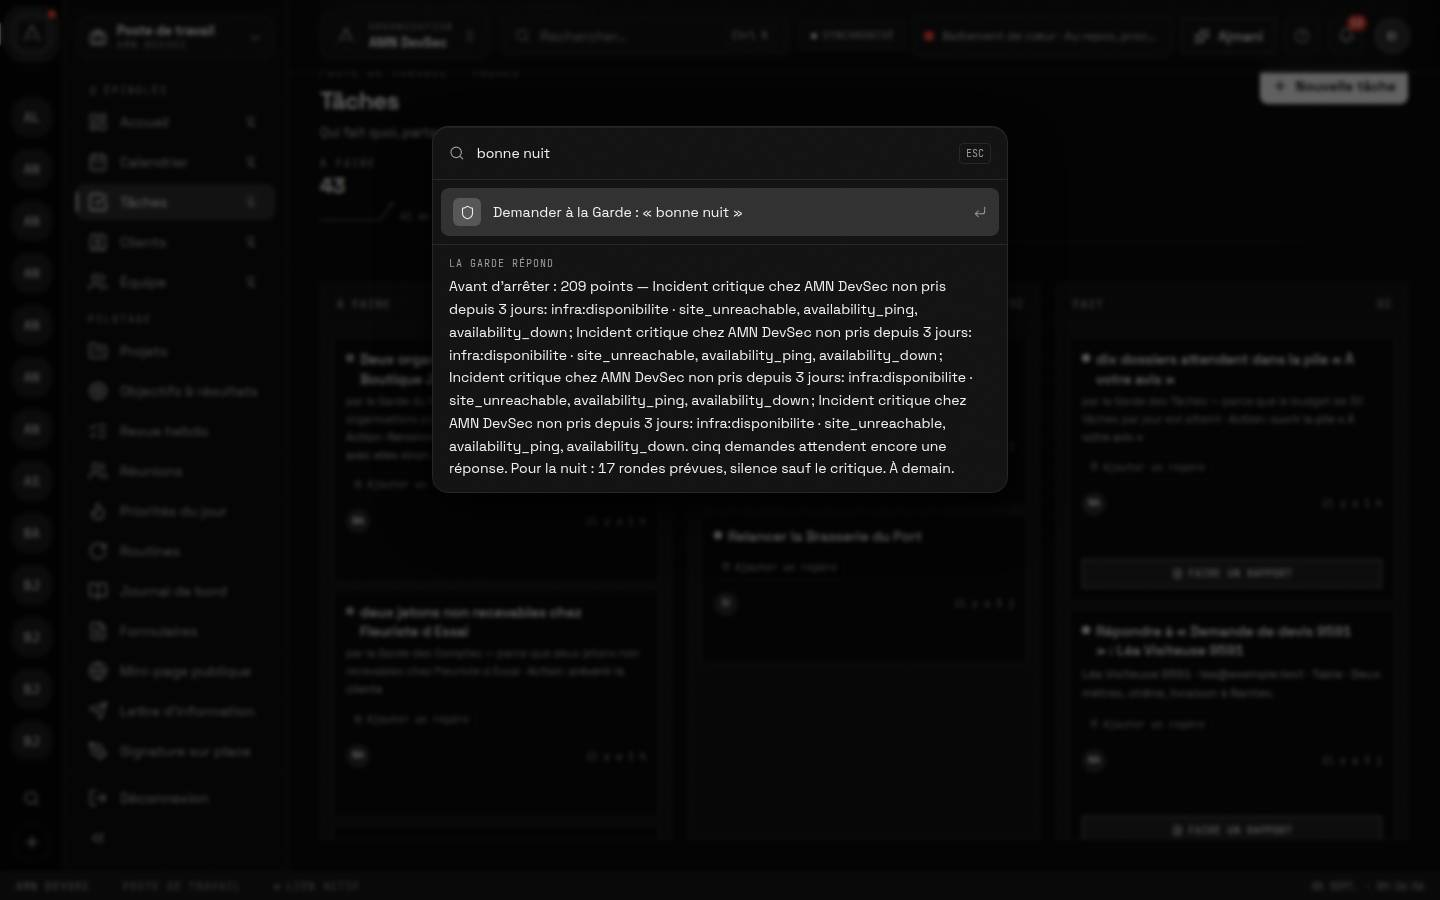
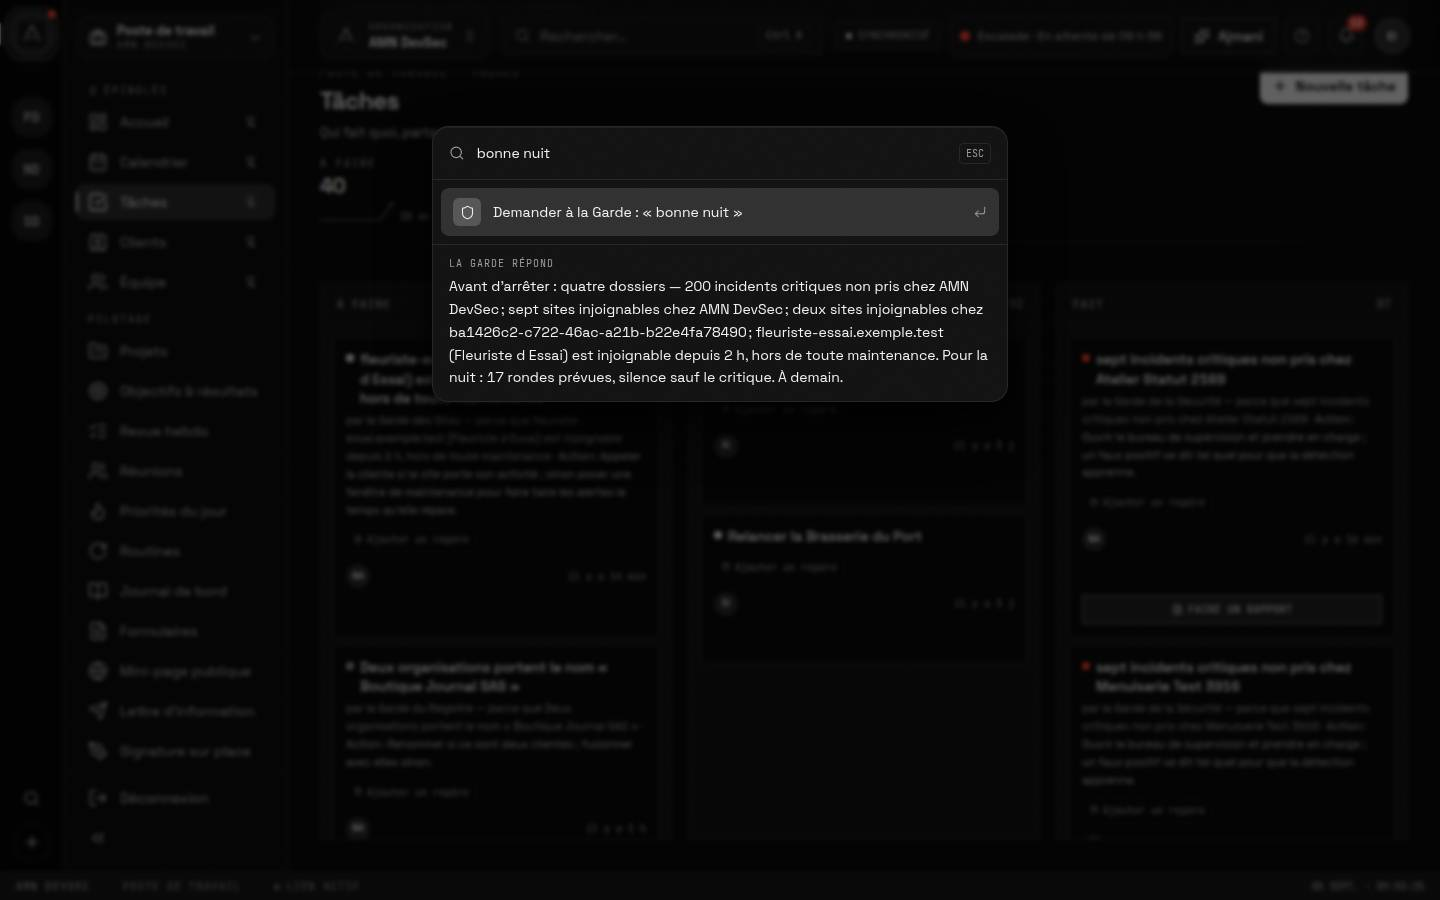
Rapport au réveil de la Garde, et la sonde 11 qui referme la palette avant de capturer
docs/garde-2026-09-05.md : le Bloc 0 (cause, correction, check:migration et
sa preuve par mutation), les équipes (règle seule / remonte), la Salle,
Ajmani (intentions, conversation témoin), le ton, le volume, la régence, ce
qui reste honnêtement — dont le parc d'essai local effacé par erreur et
reposé par un script —, ce qu'Aaron doit faire, les commits, les gardes.

La sonde recharge l'écran avant la capture du bureau des Clientes : la
palette restait posée dessus. Captures 80 à 84 reprises.

Claude-Session: https://claude.ai/code/session_01BEf9qY21FAUuZ4ogxRY3s2

diff --git a/docs/garde-2026-09-05.md b/docs/garde-2026-09-05.md
@@ -1,0 +1,114 @@
+# La Garde — rapport au réveil, 5 septembre 2026
+
+Le desktop qui travaille quand Aaron dort : douze blocs, deux dépôts, une nuit. Tout ce qui est écrit ici a été mesuré ou capturé ; ce qui ne l'a pas été est dit tel quel dans « Ce qui reste, honnêtement ».
+
+Points de sauvegarde : branche `avant-la-garde` sur les deux dépôts (desktop `9b59dfb`, amn-api `222c699`). Version du desktop inchangée : 1.2.44.
+
+## 1. Bloc 0 — les logos perdus à la 1.2.44
+
+**La cause.** Les logos n'ont jamais quitté la base. À la 1.2.44, le rail et les écrans du parc sont passés de la liste complète à l'échantillon paginé (Bloc 4 de la supervision) ; ses lignes ne portaient pas le logo, et `src/lib/parcEchantillon.ts` le mettait à `null`. Mesuré sur le build précédent : logo en base, zéro image dans le rail ; sur le build corrigé : une image. Rien à restaurer, donc : l'affichage est rétabli, aucune organisation réelle n'a été touchée en écriture.
+
+**La correction.** L'échantillon demande les logos par lot (`organizationLogos`, cent par appel, mémorisés) aux seules organisations qui en ont. Le dossier d'une organisation existante gagne « Changer le logo » et « Retirer » : ils ne se posaient qu'à la création, d'où l'impossibilité de les remettre. Captures `00-rail-logos-avant.jpg`, `00-rail-logos-apres.jpg`, `01-dossier-changer-logo.jpg`.
+
+**`check:migration`** (`scripts/check-migration.mjs`, `docs/check-migration.md`), en CI avant toute publication (`release.yml`, travail `migration`, `needs`) : la version précédente d'amn-api écrit un jeu de données complet (69 collections, deux organisations, logos, étiquettes, verrous, comptes de chaque rôle, préférences, supervision, journal — 255 lignes), le candidat démarre dessus et chaque ligne est comparée ; puis le desktop candidat est ouvert dans un navigateur réel et doit montrer tout ce qui a été écrit (rail, registre, dossiers, miroir de chaque collection). **La preuve par mutation** : `--mutation=poste` remet les logos à `null` côté poste (la régression d'origine), `--mutation=serveur` efface la colonne à la migration ; le garde échoue dans les deux cas, la CI le vérifie. Dernier passage local : 19 collections vues à l'écran, 0 perte.
+
+## 2. Les équipes — ce que chacune règle seule, ce qu'elle remonte
+
+Sept équipes, vingt gardes, sous le Capitaine ; Ajmani juge et rend compte. Chaque équipe règle seule ce qui est sûr et ne remonte que ce qui demande un avis.
+
+| Équipe (chef) | Règle seule | Remonte |
+|---|---|---|
+| **Sites** — Battement de cœur, Disponibilité, Certificats, Dépendances, Rondes planifiées, Rapports hebdomadaires | les rondes de supervision existantes : silences, sondes, SSL, OSV, résumés | un site injoignable depuis plus de 30 min hors maintenance ; un certificat sous 7 jours |
+| **Sécurité** — Escalade, Campagnes | l'escalade existante | un incident critique non pris depuis 15 min ; un acteur chez 3 organisations en 24 h |
+| **Comptes** — Places, Jetons, Impayés | activation d'un module, d'une formule ou de places au jeton valide ; préavis, grâce (7 j), mise en pause des modules souscrits, réouverture au règlement | places dépassées ; jeton non recevable ; impayé au-delà de la grâce |
+| **Registre** — Hygiène | une clé de module disparue retirée d'une liste (annulable) | organisation sans compte après 30 j ; doublon de nom |
+| **Clientes** — Demandes, Rapports mensuels, Accueil | accusé de réception de chaque demande ; le rapport du mois au premier du mois ; **la cliente qui arrive la nuit, installée** (modules de sa formule, un accès, un mot de bienvenue) | une demande sans réponse depuis 24 h ; une demande de module en attente |
+| **Produit** — Erreurs du serveur, Intégrité, Mises à jour | — | plus de 20 erreurs serveur en une heure ; un rôle ou une formule inconnus |
+| **Tâches** — Émission | une remontée = une tâche chez AMN DevSec, en dossiers, mise à jour, close quand c'est résolu ; 30 par jour, le reste en une tâche | rien : elle traduit |
+| **Mémoire** — Purge | sessions et liens expirés, compteurs, vieilles rondes et journal | des événements bruts au-delà de 180 jours, tant qu'Aaron n'a pas fixé la durée |
+
+Le Capitaine : le tour des bureaux (une Relève par jour, à l'heure réglée), le pouls, le calendrier, les propositions d'ajustement hebdomadaires, la régence, les ordres, la Salle commune, les collaborations arbitrées (un agent en sollicite un autre, trois fois par ronde au plus, jamais sur une organisation gelée). Tout est déterministe : aucun modèle de langage ; le Lexique formule, les règles décident, chaque geste s'explique par la règle qui l'a produit.
+
+## 3. La Salle, et l'espace « La Garde »
+
+Capture `10-garde-salle.jpg` : le mur des gardes, équipe par équipe, ce que chacun fait maintenant, les collaborations arbitrées par le Capitaine (`61-salle-collaborations.jpg`). Autour : la pile « À votre avis » en dossiers (`11-garde-pile.jpg`, `21-garde-pile-dossiers.jpg`), les bureaux des chefs (`12-garde-bureau-comptes.jpg`, `16-garde-bureau-telephone.jpg`), la Salle commune (`13-garde-commune.jpg`), le calendrier (`14-garde-calendrier.jpg`), le tout sur téléphone (`15-garde-salle-telephone.jpg`). L'insigne en haut à droite dit sur n'importe quel écran qui est en ronde, chez qui (`60-insigne-garde.jpg`, `63-insigne-telephone.jpg`) ; le dossier d'une organisation porte l'historique de la Garde chez elle, avec le garde à qui parler (`62-dossier-garde-chez-elle.jpg`, `84-dossier-accueillie.jpg`).
+
+## 4. Ajmani, chef d'état-major — ses intentions, et une conversation témoin
+
+Ce qu'il tient : la seule pile, en dossiers (deux cents incidents identiques chez la même organisation sont une situation) ; l'arbitrage entre les chefs (le plus grave mène, les autres se rangent derrière) ; le mandat (une famille de situations confiée avec la décision à appliquer, jamais sur du critique) ; le silence de nuit (22 h – 7 h, réglable, sauf le critique) ; **la parole du jour** (six choses par jour de lui-même, réglable ; le reste attend demain matin, en une phrase) ; la première parole (une seule proposition, choisie par une règle lisible : le critique, puis la pile, puis le tour des bureaux, puis une règle à ajuster, sinon rien) ; ce qu'il ne sait pas (un garde dont les rondes échouent, un dossier sans recommandation). Captures `20-garde-ajmani.jpg`, `22-garde-panneau-ajmani.jpg`, `23-garde-ajmani-telephone.jpg`, `80-ajmani-cloture.jpg`.
+
+Conversation témoin, telle quelle, sur le serveur local (5 septembre, 9 h 44 ; le parc d'essai porte deux cents incidents critiques de test) :
+
+> **Ajmani, à l'entrée.** Bonjour. Critique : 200 points critiques. — Un point d'abord, un dossier critique : 200 incidents critiques non pris chez AMN DevSec. Voulez-vous le prendre en charge ?
+>
+> **Aaron.** qui es-tu ?
+> **Ajmani.** La Garde : 20 gardes, sous le Capitaine ; Ajmani juge et rend compte. Garde des Sites (Chef des Sites : Battement de cœur, Disponibilité, Certificats, Dépendances, Rondes planifiées, Rapports hebdomadaires) ; Garde de la Sécurité (Chef de la Sécurité : Escalade, Campagnes) ; Garde des Comptes (…) ; Garde des Clientes (Chef des Clientes : Demandes, Rapports mensuels, Accueil) ; …
+>
+> **Aaron.** comment ça va ?
+> **Ajmani.** 200 points critiques. En veille : 20 gardes. À votre avis : 214 points, dont 200 critiques.
+>
+> **Aaron.** qui est arrivé cette nuit ?
+> **Ajmani.** deux organisations arrivées depuis 24 h : Syraagensy d Essai (5 septembre 09 h 39, installée : compte déjà ouvert) ; Fleuriste d Essai (5 septembre 09 h 39, installée : compte déjà ouvert).
+>
+> **Aaron.** et si Disponibilité tombait à 5 minutes ?
+> **Ajmani.** Disponibilité, règle « tombe » : Avec seuilMinutes à 5, le mois écoulé aurait produit 16 au lieu de 16.
+>
+> **Aaron.** je ferme pour ce soir
+> **Ajmani.** Ce qui vous attend : quatre dossiers — 200 incidents critiques non pris chez AMN DevSec ; … Cette nuit, la Garde fera 17 rondes ; je ne vous dérange que pour le critique. Bonne soirée.
+>
+> **Aaron.** fais-moi un café
+> **Ajmani.** Je n'ai pas compris. Dites-moi quoi faire en quelques mots : une ronde, une organisation, un module, une période.
+
+Trente intentions comprises (`GET /v1/garde/lexique`), dont les nouvelles de cette nuit : la clôture, « et si », le pouls, le calendrier, qui est arrivé, qui es-tu, le silence, l'heure du tour, la parole, le mandat par la voix. « Je pars » tout court est une clôture ; « je pars trois jours », une absence à confirmer.
+
+## 5. Le ton — `check:parole`
+
+Sur les deux dépôts, en CI. Côté serveur : chaque tournure du Lexique rendue avec des paramètres de remplissage (162 tournures, 98 clés), chaque libellé du guide, chaque phrase en dur des équipes (un automate lit les chaînes du source) — refusés : le point d'exclamation, la servilité (« mon roi », « à vos ordres », « désolé », « avec plaisir »…), l'apostrophe droite, le « (s) », une typographie mal posée, un nom compté dont le genre n'est pas dit (« une demande », « aucune ronde », jamais « un demande »). Il a trouvé et fait corriger onze phrases (apostrophes droites, trois « (s) »). Côté poste : les 534 clés `garde.*` des deux dictionnaires et les phrases en dur des écrans de la Garde ; il a trouvé et fait corriger vingt-six clés (« constat(s) jugé(s) », « situation(s) », onze espaces fines devant un deux-points, onze espaces simples). « À vos ordres » a quitté les salutations d'Ajmani.
+
+## 6. Bloc 8 — la Garde en volume, et ses limites
+
+`amn-api/docs/garde-volume-2026-09-05.md`, sur une copie de la base de volume (100 001 organisations, 100 000 sites, 301 166 incidents), aucun réseau :
+
+| Mesure | Valeur |
+|---|---|
+| Une ronde de chaque agent, forcée | de 1 ms (jetons, impayés) à 6,9 s (certificats) et 5,7 s (disponibilité) ; battement de cœur 1,4 s |
+| Nuit simulée de 480 minutes | 463 s de temps réel, 773 ms de CPU par minute simulée, battement le plus long 6,3 s (budget 15 s) |
+| Rondes faites | 1 587 |
+| Remontées ouvertes → dossiers | 701 → 4 201 ; 4 198 dossiers dont 197 critiques |
+| Tâches chez AMN DevSec | 31 (budget de 30 par jour, puis une tâche pour le reste) |
+| Mémoire | pic 2 520 Mo ; après ramasse-miettes, tas JavaScript 42 Mo, 2 175 Mo hors tas (SQLite et son WAL) |
+
+Ce qui ne tient pas, dit avec les chiffres : à 100 000 organisations, les agents qui parcourent le parc par pages de 200 (places, hygiène, intégrité, rapports) mettent de 21 à 125 jours pour un tour complet ; le pic mémoire ne tient pas sur Render Starter (512 Mo) — le remède est un service « worker » dédié avec un budget par battement plus large, pas des lots plus gros. `check:taches` (CI) : 2 892 remontées → 908 dossiers en 495 ms, puis 60 ms.
+
+## 7. Bloc 12 — la régence, 72 heures sur 100 000 organisations
+
+`amn-api/scripts/garde-regence.mjs` → `amn-api/docs/garde-regence-2026-09-05.md`. Aaron part un vendredi à 20 h pour trois jours ; l'horloge avance par pas de dix minutes ; le Capitaine fait battre les rondes dues.
+
+La première mesure (avant correction) a révélé un défaut réel : une situation décidée par la régence revenait dans la pile à la ronde suivante — 216 055 remontées en 72 h pour 100 000 sites tombés. Corrigé à la source (une situation décidée ne se rouvre pas pendant vingt-quatre heures, elle est comptée), avec les compteurs de la Relève de rattrapage désormais en SQL. La seconde mesure, sur le code corrigé, tourne au moment où ce rapport est écrit ; ses chiffres et ses dix vérifications (✓ / ✗) sont dans `amn-api/docs/garde-regence-2026-09-05.md`, mis à jour par le commit qui suit celui-ci.
+
+## 8. Ce qui reste, honnêtement
+
+- **Une régence décide, elle n'agit pas.** Une décision en régence applique la recommandation du garde telle quelle : elle ferme la situation dans la pile, journalise, et le dit au retour. Ce que la recommandation demande à un humain (« appeler la cliente ») reste à faire. « Le critique va à Mohamed » est une consigne au journal, pas un envoi : aucun canal vers lui n'existe côté serveur.
+- **La cliente de nuit est installée, pas prévenue.** L'Accueil pose les modules, un lien d'accueil de sept jours ou constate l'invitation en cours, et un mot de bienvenue dans ses annonces. Le secret du lien ne sort pas du serveur ; personne ne lui envoie de courriel : la propriétaire le reçoit par le canal habituel (Mohamed, le site).
+- **« Et si ? »** ne se rejoue que sur trois règles (disponibilité, escalade, demandes), à partir des traces qui existent (pings indépendants, incidents, demandes). Les autres le disent : « cette règle ne se rejoue pas encore ».
+- **Le pas de dix minutes** de la simulation de régence : une ronde due entre deux pas attend le pas suivant.
+- **Le million** et Render Starter : voir le Bloc 8 ; un worker dédié, pas des lots plus gros.
+- **Ce que j'ai cassé, et réparé.** En nettoyant l'organisation d'essai d'une sonde, j'ai supprimé par la route d'administration toutes les organisations du parc d'essai **local** (`/tmp/e2e/amn.db`, trente organisations de sondes, aucune donnée réelle : le serveur de production n'a jamais été touché). Cause : une recherche `q=` prise pour un filtre exact, et une boucle qui supprimait sans relire les noms. Réparé par `amn-api/scripts/parc-essai.mjs`, qui repose un parc de test idempotent (deux clientes d'essai, un site injoignable, un incident critique non pris) ; les sondes 9 et 11 repassent (7/7, 10/10). La leçon est dans le script : on relit les noms avant de supprimer.
+- **Le bloc 3 des retouches** (points fantômes de la Salle, redirection d'édition sur les deux surfaces) n'a pas été repris cette nuit.
+- **Les tests de la CI** n'ont pas été vus tourner sur GitHub depuis cette session (les poussées partent, les journaux de CI ne sont pas lus d'ici) : à vérifier au réveil.
+
+## 9. Ce qu'Aaron doit faire
+
+1. **Déployer amn-api** (`main`, dernier commit de cette nuit) : `check:postgres` est vert en local (32 réponses identiques), la CI le rejoue sur un vrai Postgres. `GARDE=on` par défaut ; `GARDE_TICK_MS`, `GARDE_BUDGET_MS` règlent le battement. Sur Render Starter, surveiller la mémoire la première nuit.
+2. **Relier le site aux jetons** avec Mohamed : `amn-api/docs/site-jetons.md` (l'émission par le site, le dépôt par la cliente, l'activation par la Garde des Comptes, les règlements). Le jeton d'opérateur du site est à poser côté site.
+3. **Essayer sur sa machine** : `npm run check:parole` (les deux dépôts), `npm run check:migration` (desktop, `AMN_API_DIR=../amn-api`), puis la Garde en vrai : ouvrir l'espace « La Garde », parler à Ajmani (« comment ça va ? », « je ferme pour ce soir »), poser un mandat, régler l'heure du tour et le silence. Pour un parc de test local : `SQLITE_PATH=… node amn-api/scripts/parc-essai.mjs`.
+4. **Décider des réglages de la régence** : par défaut, sites, sécurité, registre, tâches et clientes décident seuls en absence ; les Comptes jamais ; la mise en pause des impayés est gelée. C'est un défaut, pas une doctrine.
+5. **Fixer la durée de garde des événements bruts** (la Mémoire remonte, sans purger, au-delà de 180 jours tant qu'elle n'est pas fixée).
+
+## 10. Les commits
+
+Desktop (`claude/first-pr-github-setup-ltpqqo`) : `dbefa5a` Bloc 0 · `535f67e` Bloc 1 · `6bcb5a3` Bloc 3 · `d6f0101` Bloc 4 · `5c09564` Bloc 5 · `4efef19` Bloc 6 · `8edee5b` Bloc 7 · `9f63e71` Blocs 9 et 10 · `8888608` Blocs 11 et 12 · puis ce rapport.
+
+amn-api (`main`) : `e44946d` Bloc 0 · `be290df` Bloc 2 · `20e6906` Bloc 3 · `db21243` Bloc 4 · `b678b5d` pluriels · `05508b5` Bloc 5 · `17e0ae2` Bloc 6 · `cf78ada` Bloc 7 · `fcce40b` Blocs 8 et 9 · puis Blocs 11 et 12.
+
+Gardes verts au moment du rapport : desktop — typecheck, lint (0 erreur, 85 avertissements préexistants), `check:langue`, `check:parole`, `check:business`, `check:naming`, `check:ecrans`, `check:liens`, `check:modules`, `check:clavier`, `check:focus`, `check:cibles`, `check:largeur`, `check:contraste`, `check:accent`, `check:roles`, `check:profiles`, `check:barre`, `check:persistence`, `check:migration` ; amn-api — 444 tests, `check:postgres`, `check:taches`, `check:parole`. Sondes : blocs 3 (14/14), 4 (14/14), 5 (12/12), 6 (5/5), 7 (10/10), 9 (7/7), 10 (7/7), 11 (10/10) ; captures dans `docs/captures/garde-2026-09-05/`.
